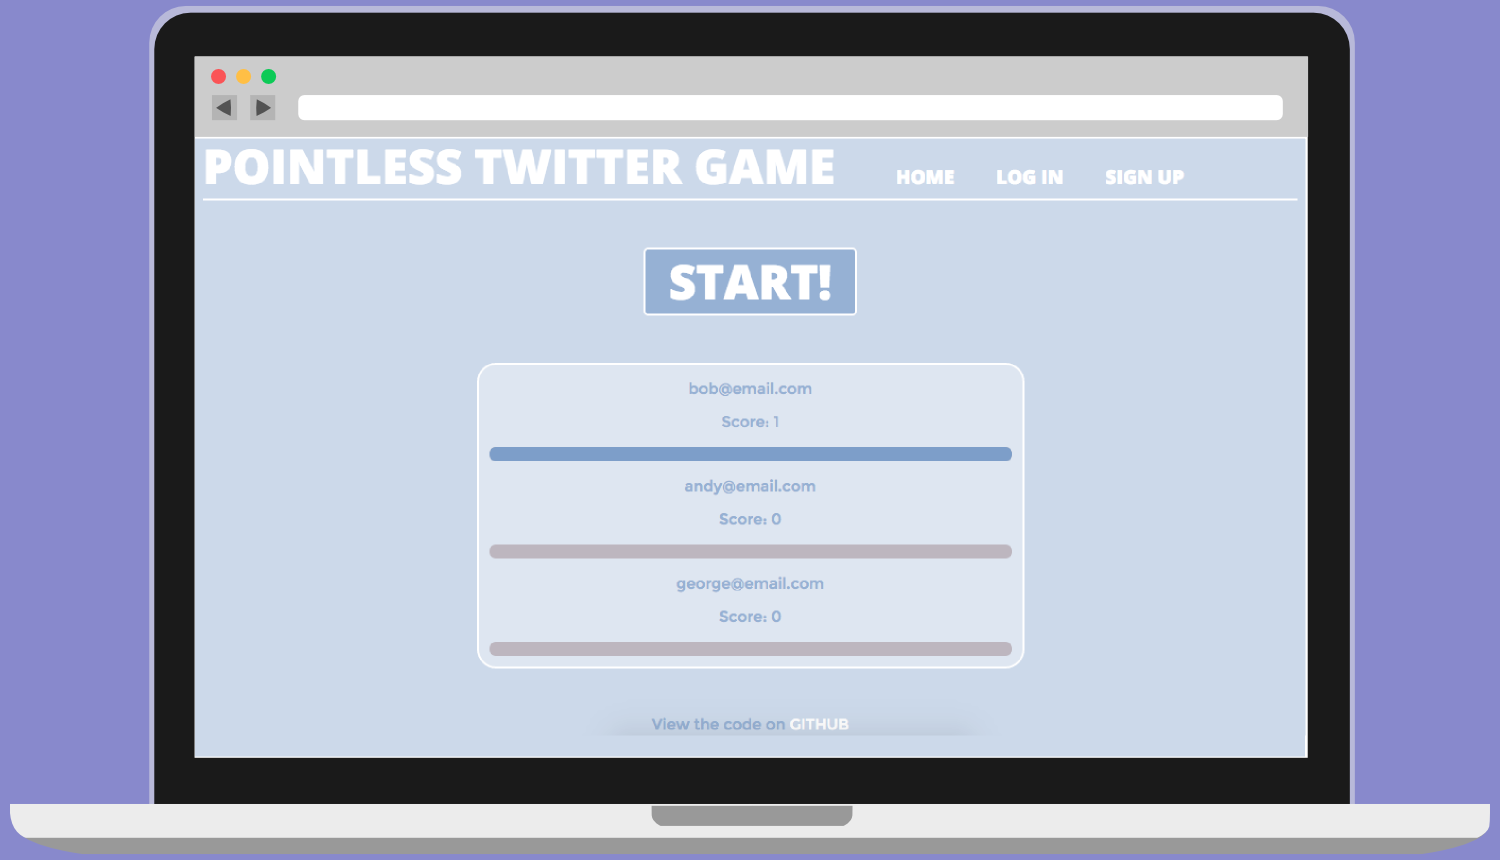
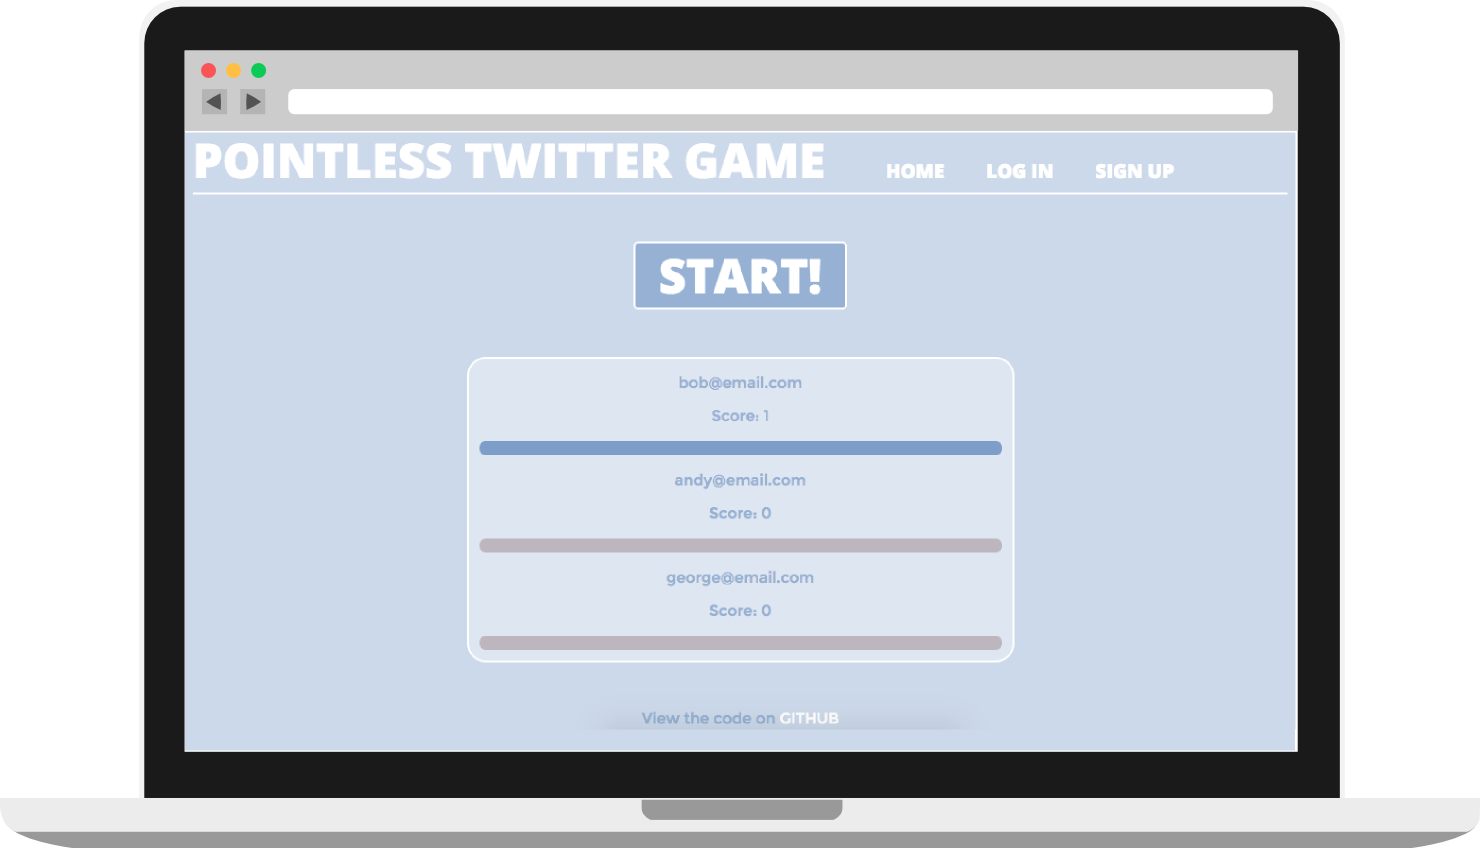
remove background boxes from images

diff --git a/_site/README.md b/_site/README.md
@@ -1,5 +1,4 @@
 aurorayes.com
 =============
 
-New repo for personal website. Le roi est mort, vive le roi, etc.
-View it in action here: http://aurorayes.com
+New repo for personal website. Powered by Jekyll, etc.
